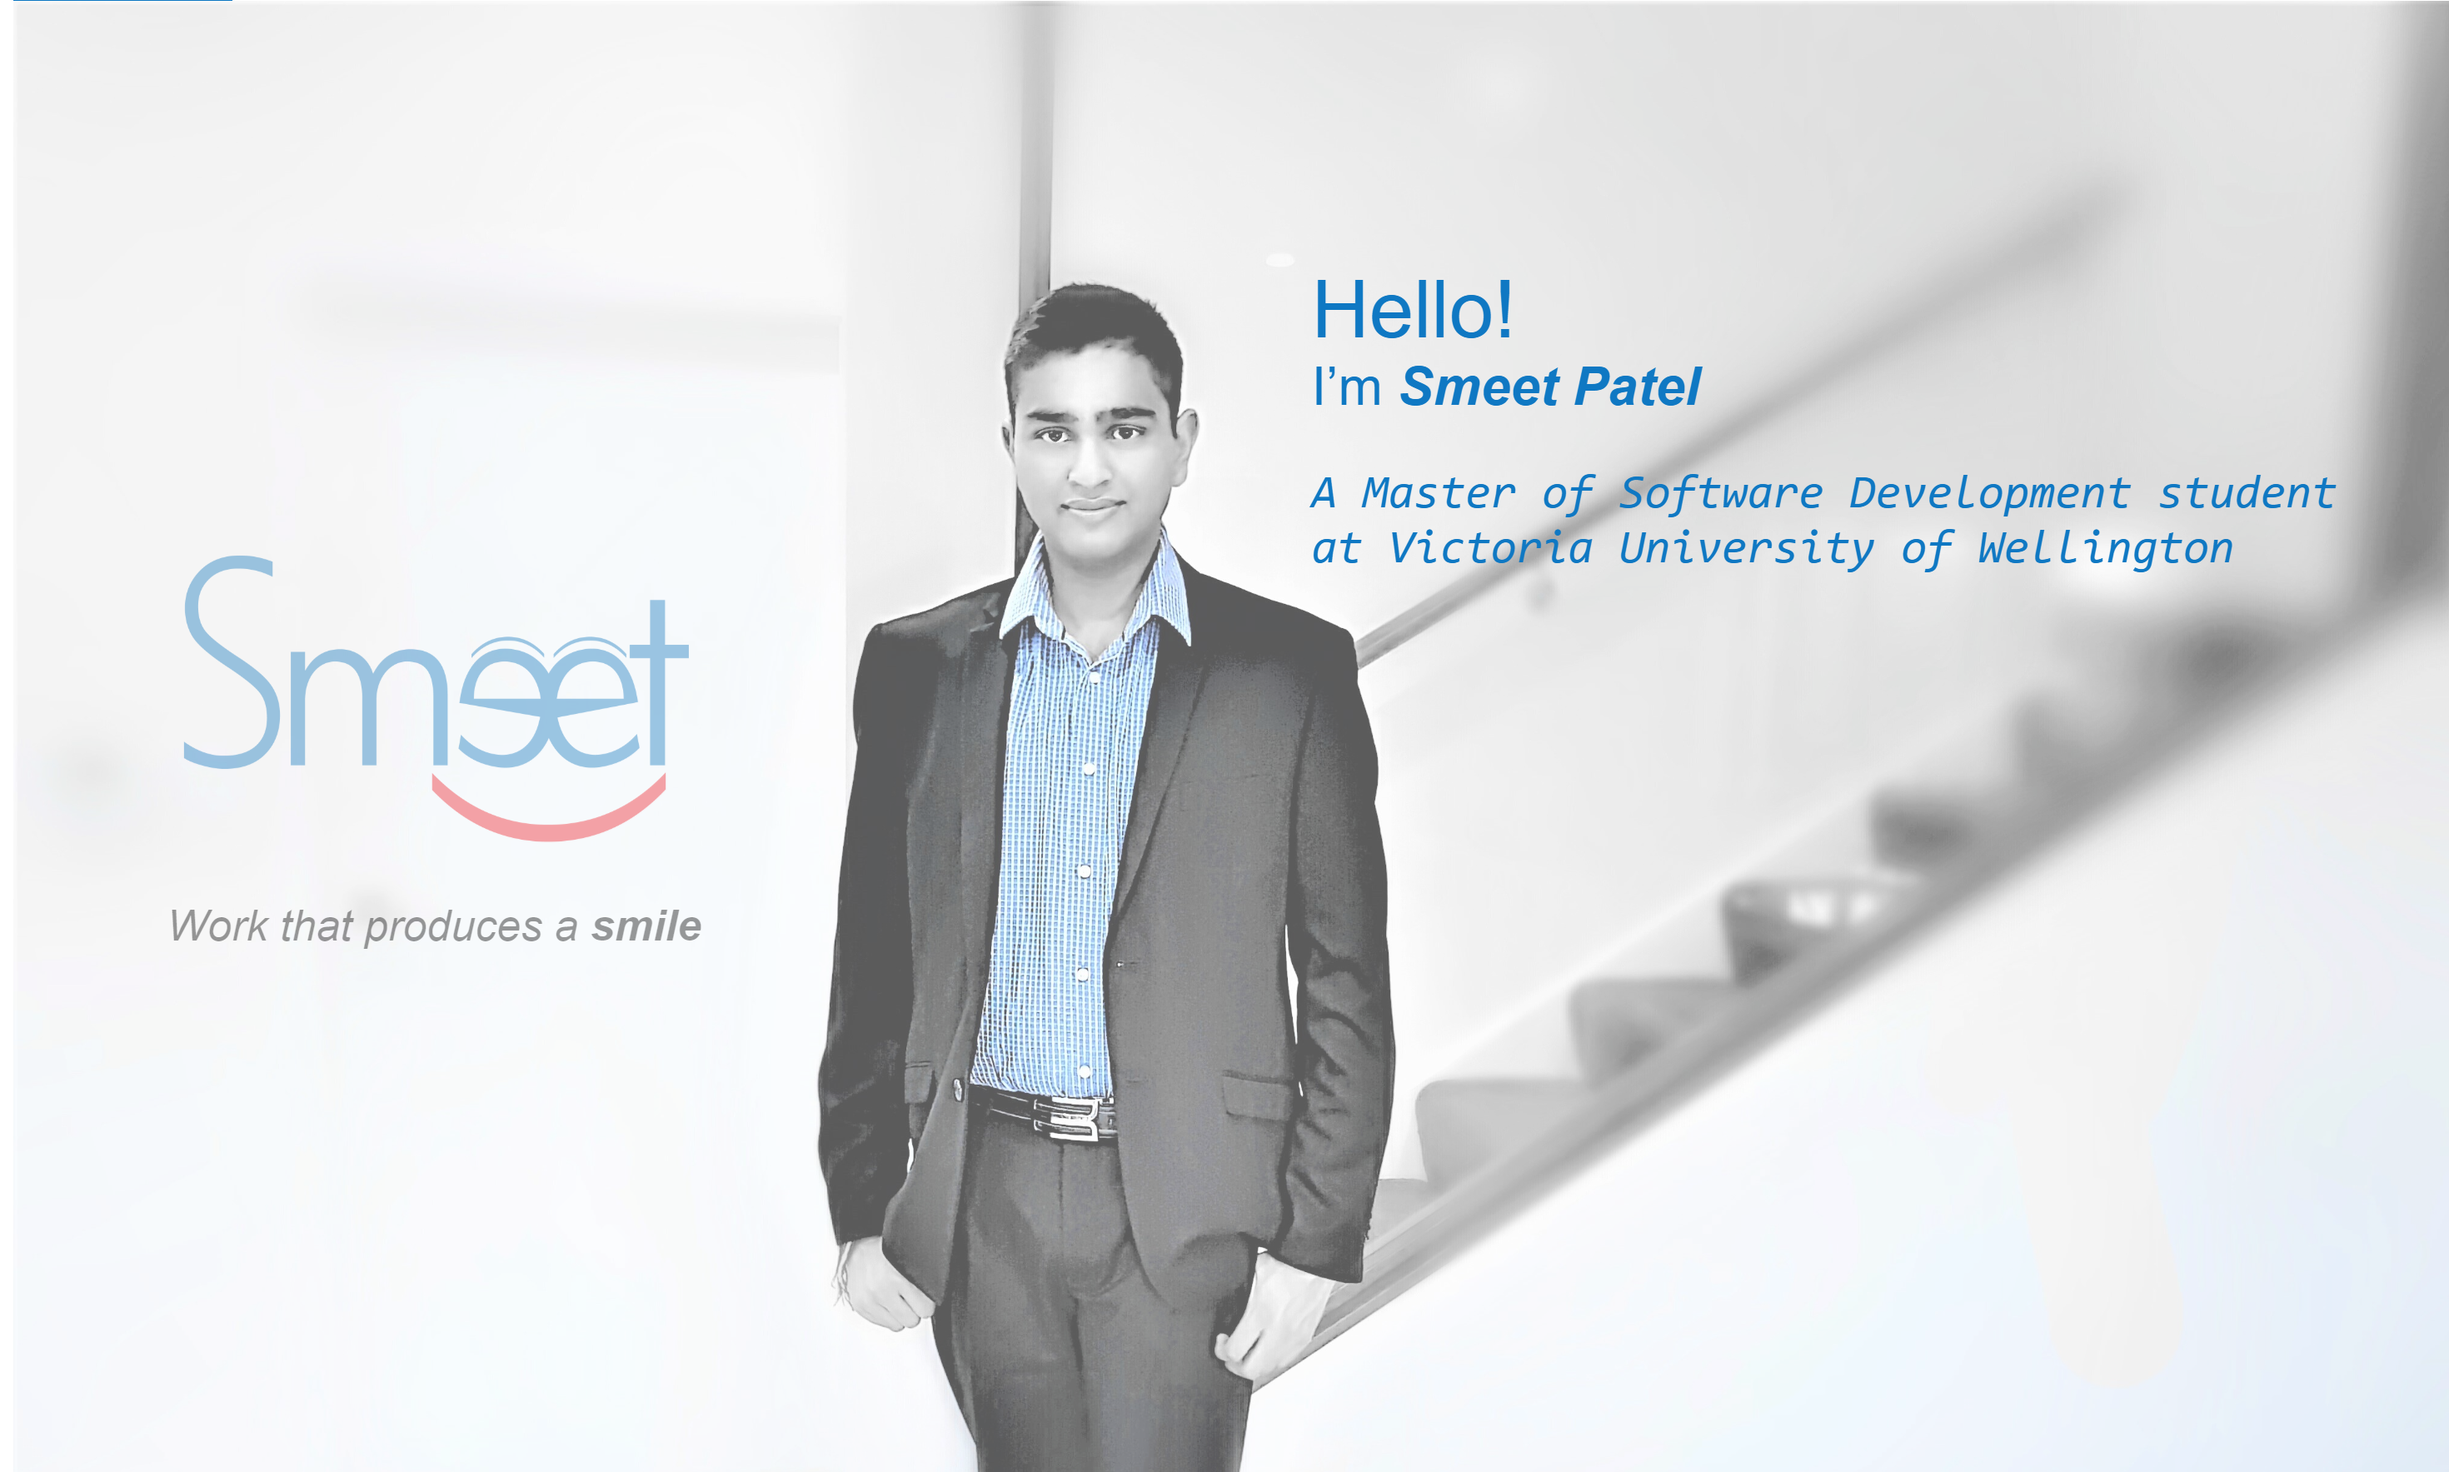
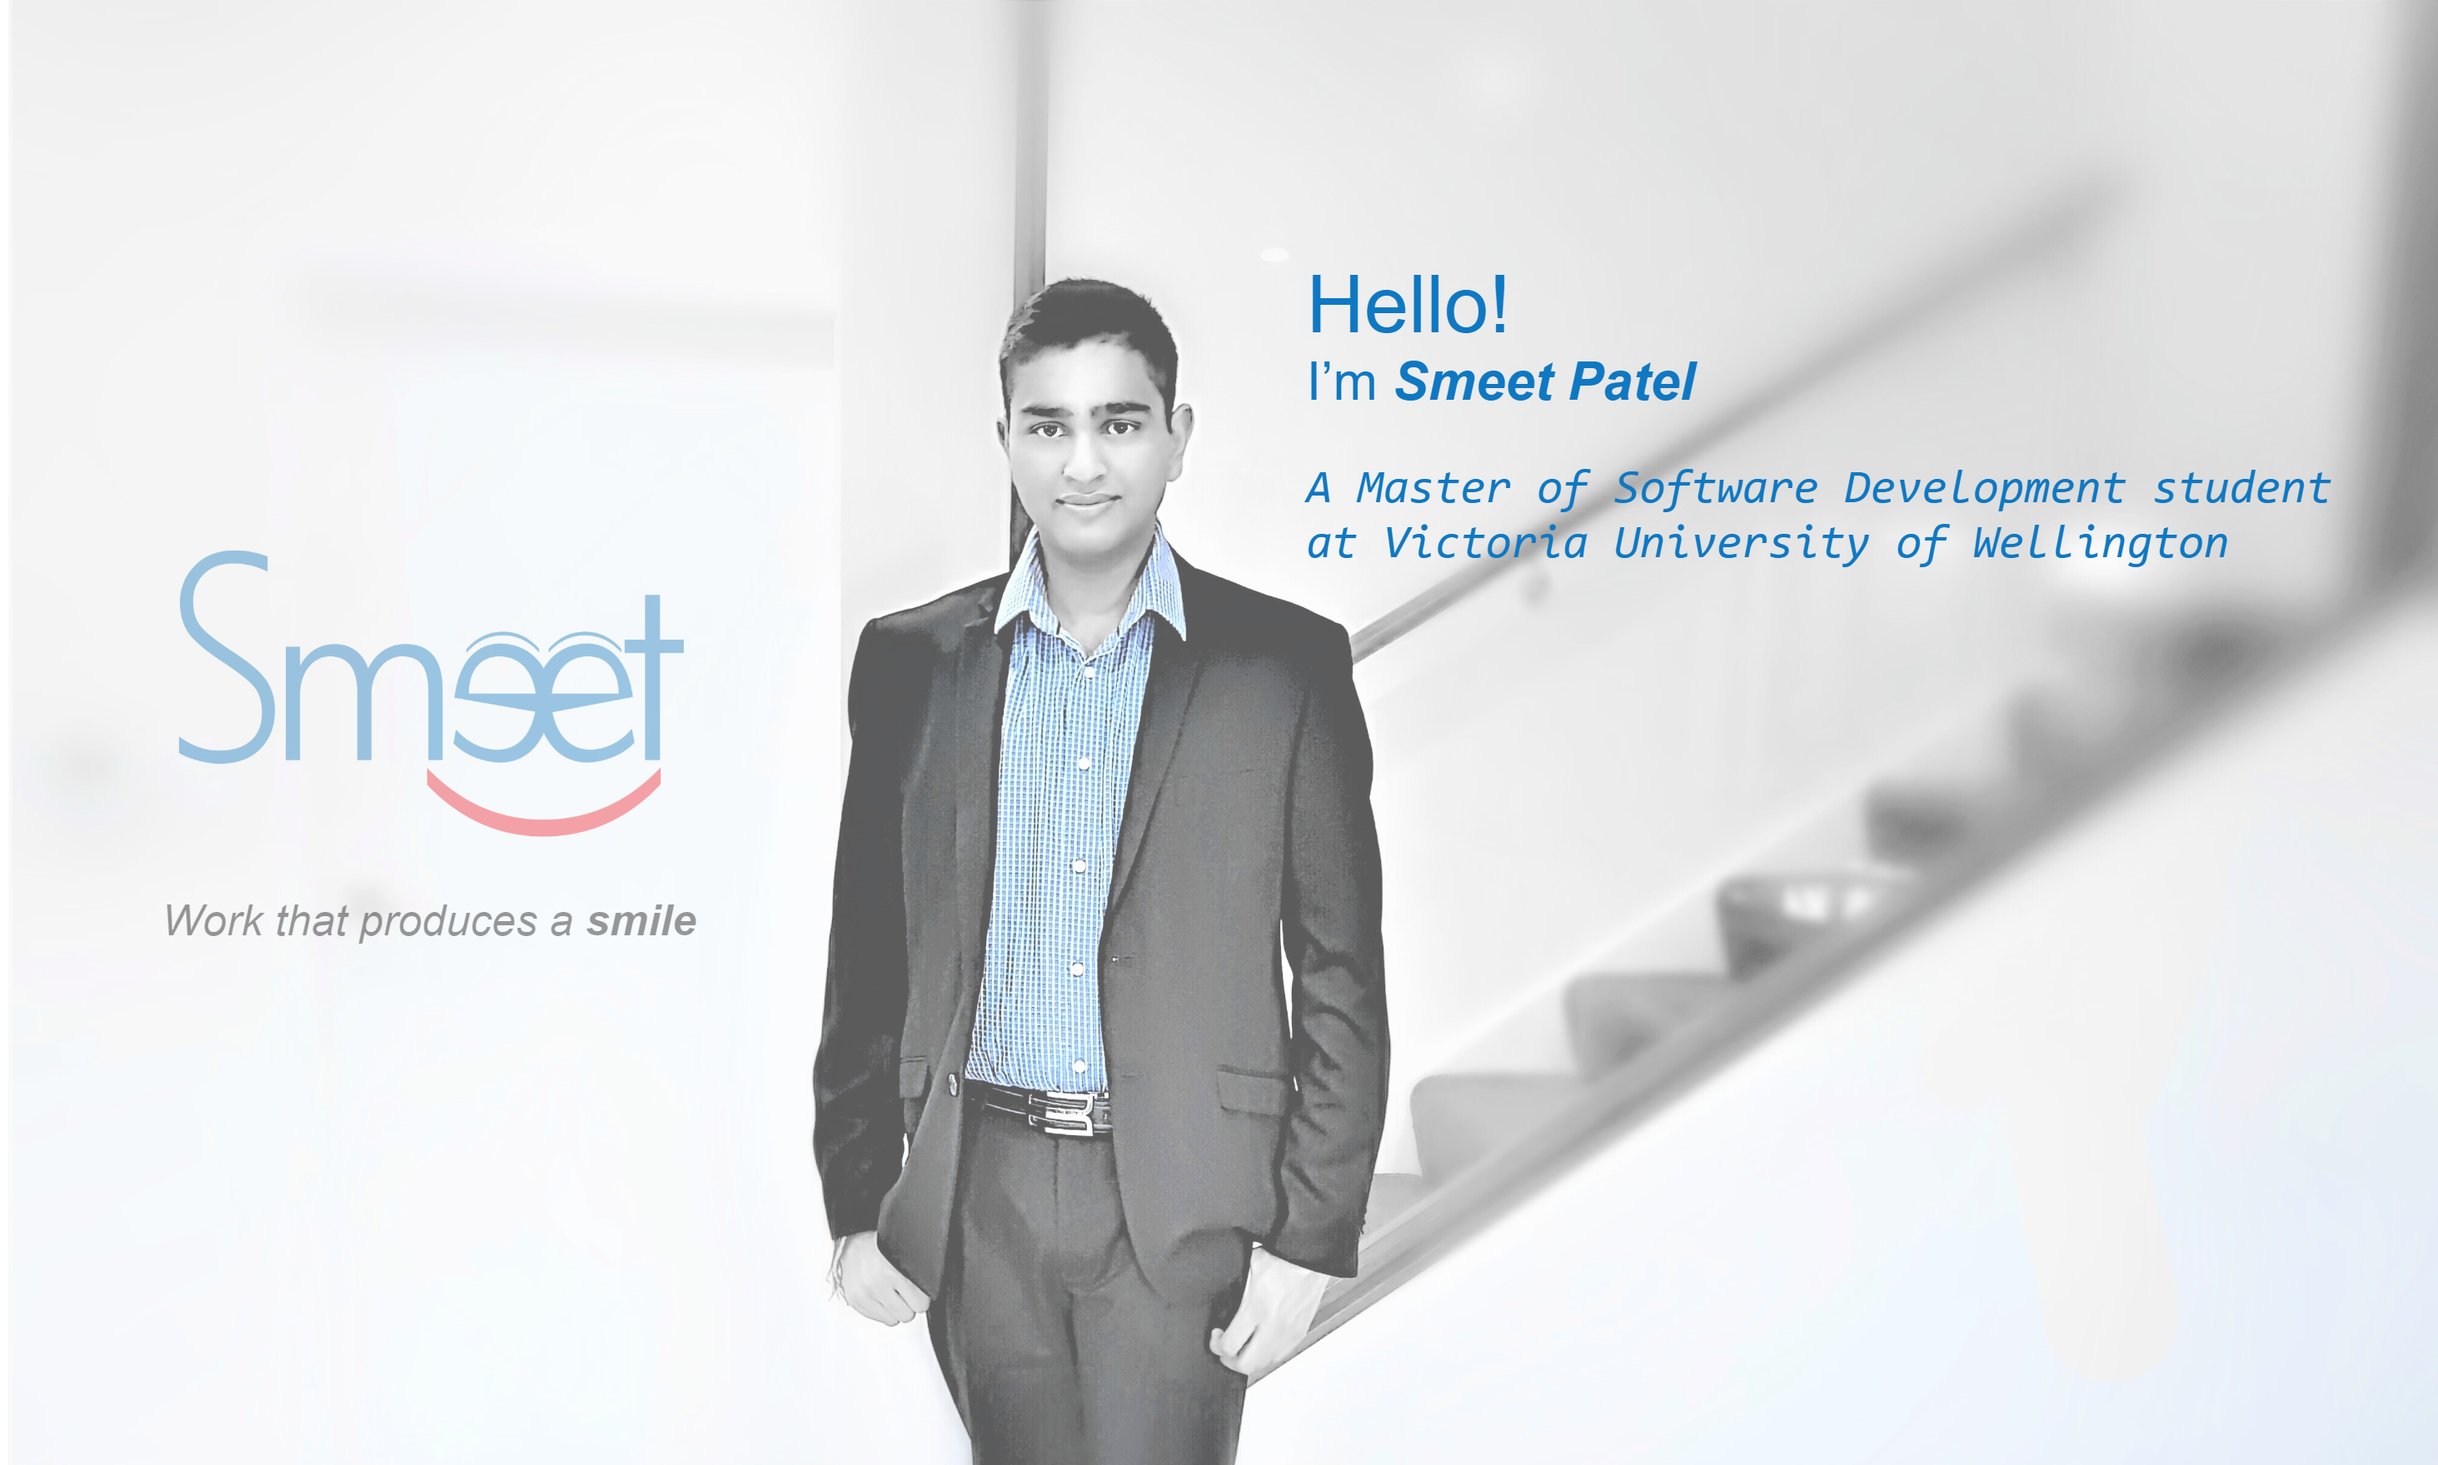
index text changed

diff --git a/style.css b/style.css
@@ -1,7 +1,5 @@
 body{
-	/**background-image: url("me1.jpg");
-	background-repeat: no-repeat;
-    background-size: 100% 100%;**/
+/* My Theme Font */
 	font-family: "Myriad Pro", sans-serif;
 	
 }
@@ -9,7 +7,139 @@ html, body {
 	margin:0 ;
 	padding: 0;
 	background: #f1f1f1;
+	min-width: 100%;
+	min-height: 100%;
+	/* If white boxes are made, an off tone will show the box */
+	/*background: #f1f1f1;*/
 }
+
+.intro, .biggerfont{
+    text-align: center;
+	color: #0F78C3;
+}
+
+.biggerfont{
+	font-size:1.5vw;
+}
+
+.intro{
+	font-size:3vw;
+}
+
+/* =============== NAV BAR CODE ===============*/
+.nav1 {
+  overflow: hidden;
+  /**background-color: white;**/
+  font-weight: 540;
+  font-family: "Myriad Pro", sans-serif;
+}
+
+/* The nav bar from portfoilo */
+.nav1 a:not(:first-child){float: right;
+padding: 22px 23px;
+}
+
+/* Styling Nav bar text */
+.nav1 a {
+  float: left;
+  display: block;
+  color: #0F78C3;
+  text-align: center;
+  padding: 10px 31px;
+  text-decoration: none;
+  font-size: 16px;
+}
+
+/* text black and background light gray*/
+.nav1 a:hover {
+  background-color: #ddd;
+  color: black;
+}
+
+/* styling of the logo title on left */
+.active {
+  background-color: #0F78C3;
+  color: white;
+}
+
+/* menubutton hidden default */
+.nav1 .menubutton {
+  display: none;
+}
+
+/* responsive design menu, just 
+another way make this work on different screen sizes  */
+@media screen and (max-width: 600px) {
+  .nav1 a:not(:first-child) {display: none;}
+  .nav1 a.menubutton {
+    float: right;
+    display: block;
+  }
+}
+
+/* when the width of window is less than 600px (responsive menu) */
+@media screen and (max-width: 600px) {
+  .nav1.responsive {position: relative;}
+  .nav1.responsive .menubutton {
+    position: absolute;
+    right: 0;
+    top: 0;
+  }
+  .nav1.responsive a {
+    float: none;
+    display: block;
+    text-align: left;
+  }
+}
+
+/* ------------ NAV BAR CODE ENDS ------------ */
+
+/* =============== FOOTER CODE ===============*/
+
+/* footer take 100% width */
+.footer {
+width: 100%;
+}
+
+/* footer styling and trying to make it at bottom of the page 
+left and button equal 0 */
+footer {
+  margin-top: 20px;
+  width: 100%;
+  margin: 0 auto;
+  background: #0F78C3;
+  padding: 15px 0px;
+  text-align: center;
+  right: 0;
+  bottom: 0;
+  left: 0;
+}
+
+/* links of the footer */
+footer a {
+  color: #ecf7fe;
+  font-size: 20px;
+  padding: 0px 5%;
+  border-right: 1px solid white;
+  transition: all .5s ease;
+}
+
+footer a:first-child {
+  /* adding the 1px line to the left for 1st element */
+  border-left: 1px solid white;
+}
+
+/* for the links in footer on hover */
+footer a:hover {
+  color: white;
+  opacity:.8;
+}
+
+/* ------------ FOOTER CODE ENDS ------------ */
+
+
+/* +++++++++++++ INDEX PAGE CSS +++++++++++++ */
+
 
 /* Create two unequal columns that floats next to each other */
 /* Left column */
@@ -59,95 +189,10 @@ margin:20px;
 	position:0;
 	
 }
-.nav1 {
-  overflow: hidden;
-  /**background-color: white;**/
-  font-weight: 540;
-  font-family: "Myriad Pro", sans-serif;
-}
-
-.nav1 a:not(:first-child){float: right;
-padding: 22px 23px;
-}
-
-.nav1 a {
-  float: left;
-  display: block;
-  color: #0F78C3;
-  text-align: center;
-  padding: 10px 31px;
-  text-decoration: none;
-  font-size: 16px;
-}
-
-.nav1 a:hover {
-  background-color: #ddd;
-  color: black;
-}
-
-.active {
-  background-color: #0F78C3;
-  color: white;
-}
-
-.nav1 .menubutton {
-  display: none;
-}
-
-@media screen and (max-width: 600px) {
-  .nav1 a:not(:first-child) {display: none;}
-  .nav1 a.menubutton {
-    float: right;
-    display: block;
-  }
-}
 #lineA {
     line-height: 1.6;
 }
 
-.footer {
-width: 100%;
-}
-
-footer {
-  margin-top: 20px;
-  width: 100%;
-  margin: 0 auto;
-  background: #0F78C3;
-  padding: 15px 0px;
-  text-align: center;
-  right: 0;
-  bottom: 0;
-  left: 0;
-}
-footer a {
-  color: #ecf7fe;
-  font-size: 20px;
-  padding: 0px 5%;
-  border-right: 1px solid white;
-  transition: all .5s ease;
-}
-footer a:first-child {
-  border-left: 1px solid white;
-}
-footer a:hover {
-  color: white;
-  opacity:.8;
-}
-
-@media screen and (max-width: 600px) {
-  .nav1.responsive {position: relative;}
-  .nav1.responsive .menubutton {
-    position: absolute;
-    right: 0;
-    top: 0;
-  }
-  .nav1.responsive a {
-    float: none;
-    display: block;
-    text-align: left;
-  }
-}
 .bottom-left {
     position: absolute;
     left: 10vw;

diff --git a/index.html b/index.html
@@ -26,9 +26,12 @@
 	  <a href="javascript:void(0);" style="font-size:15px;" class="menubutton" onclick="myFunction()">&#9776;</a>
 	</div>
 
+<p class="intro">Hello! My name is <b><em>Smeet</em></b>.</p><b>
+<pre class="biggerfont">Welcome to my website. <i>I am passionate about web design, mobile and project orientated task and a travel enthusiast.</i></pre><p class="biggerfont">I am a Master of Software Development student @ Victoria University of Wellington (VUW).
+</p>
 <!---------------------------------------------------------->
 <!-- Index Page Banner ------------------------------------->	
-<img src="smeet1.png" alt="Smeet" style="width:100%">
+<img src="smeet1lesstext.png" alt="Smeet" style="width:100%">
 
 <!---------------------------------------------------------->
 <!-- Footer with Icons ------------------------------------->
